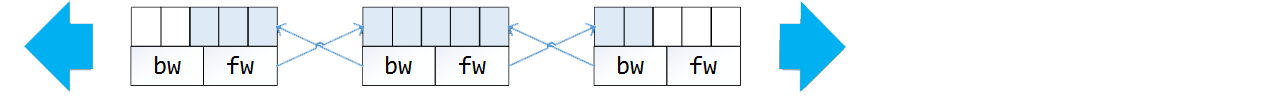
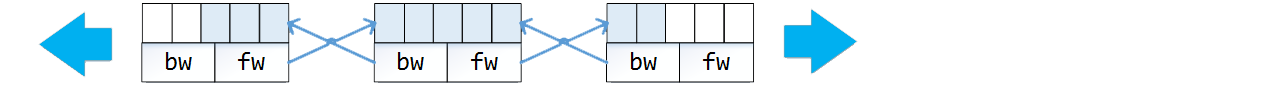
finish chapter 03

diff --git a/Array/array/queue.go b/Array/array/queue.go
@@ -1,5 +1,9 @@
 package array
 
+import (
+	"errors"
+)
+
 type Queue interface {
 	Clear()
 	IsFull() bool
@@ -9,32 +13,33 @@ type Queue interface {
 	Front() (key int, fail bool)
 }
 
-func NewQueue(size int) Queue {
+func NewQueue(size int) (Queue, error) {
 	var core = new(queue)
-	core.initialize(size)
-	return core
+	var err = core.initialize(size)
+	if err != nil {
+		return nil, err
+	}
+	return core, nil
 }
 
-//实际容量为len(space)-1
 type queue struct {
 	space    []int
 	mask     int
 	rpt, wpt int
 }
 
-func (q *queue) initialize(size int) {
-	if size > 0x10000 {
-		size = 0x10000
-	} else if size < 4 {
-		size = 4
+func (q *queue) initialize(size int) error {
+	if size < 1 || size > 0xffff {
+		return errors.New("Illefal queue size")
 	}
 	var sz = 4
-	for sz < size {
+	for sz <= size {
 		sz *= 2
-	}
+	} //实际容量为sz-1
 	q.space = make([]int, sz)
 	q.mask = sz - 1
 	q.Clear()
+	return nil
 }
 func (q *queue) Clear() {
 	q.rpt, q.wpt = 0, 0
@@ -54,6 +59,7 @@ func (q *queue) Push(key int) (fail bool) {
 		return true
 	}
 	q.space[q.wpt] = key
+	//memory barrier
 	q.wpt = next
 	return false
 }
@@ -65,6 +71,8 @@ func (q *queue) Pop() (key int, fail bool) {
 	if q.IsEmpty() {
 		return 0, true
 	}
-	key, q.rpt = q.space[q.rpt], (q.rpt+1)&q.mask
+	key = q.space[q.rpt]
+	//memory barrier
+	q.rpt = (q.rpt + 1) & q.mask
 	return key, false
 }

diff --git a/Array/array/unit_test.go b/Array/array/unit_test.go
@@ -31,7 +31,7 @@ func Test_BinarySearch(t *testing.T) {
 func Test_CyclicQueue(t *testing.T) {
 	defer guard_ut(t)
 
-	var queue = NewQueue(5)
+	var queue, _ = NewQueue(5)
 	for i := 1; i < 8; i++ {
 		var fail = queue.Push(i)
 		if fail {
@@ -42,6 +42,7 @@ func Test_CyclicQueue(t *testing.T) {
 	if !fail {
 		t.Fail()
 	}
+	//1, 2, 3, 4, 5, 6, 7
 
 	for i := 1; i < 5; i++ {
 		var key, fail = queue.Pop()
@@ -49,6 +50,7 @@ func Test_CyclicQueue(t *testing.T) {
 			t.Fail()
 		}
 	}
+	//5, 6, 7
 	for i := 8; i < 12; i++ {
 		var fail = queue.Push(i)
 		if fail {
@@ -58,6 +60,7 @@ func Test_CyclicQueue(t *testing.T) {
 	if !queue.IsFull() {
 		t.Fail()
 	}
+	//5, 6, 7, 8, 9, 10, 11
 
 	for i := 5; i < 12; i++ {
 		var key, fail = queue.Pop()

diff --git a/book/01/01-C.md b/book/01/01-C.md
@@ -51,30 +51,30 @@
 
 既然不知道怎么选，我们大可以先随机抓几个，再剔掉最烂的。虽说也是治标不治本的法子，好歹比固定选某个强。
 ```go
-var magic = ^uint(0)
-func partition(list []int) int {
-	var size = len(list)					//不少于3
-	var x, y = int(magic % uint(size-1)), int(magic % uint(size-2))
-	magic = magic*1103515245 + 12345		//伪随机数步进
+	var magic = ^uint(0)
+	func partition(list []int) int {
+		var size = len(list)					//不少于3
+		var x, y = int(magic % uint(size-1)), int(magic % uint(size-2))
+		magic = magic*1103515245 + 12345		//伪随机数步进
 
-	var a, b = 1 + x, 1 + (1+x+y)%(size-1)	//a != b
-	var barrier = list[0]					//三点取中法
-	if list[a] < list[b] {
-		if barrier < list[a] {
-			barrier, list[a] = list[a], barrier
-		} else if list[b] < barrier {
-			barrier, list[b] = list[b], barrier
+		var a, b = 1 + x, 1 + (1+x+y)%(size-1)	//a != b
+		var barrier = list[0]					//三点取中法
+		if list[a] < list[b] {
+			if barrier < list[a] {
+				barrier, list[a] = list[a], barrier
+			} else if list[b] < barrier {
+				barrier, list[b] = list[b], barrier
+			}
+		} else { //list[a] >= list[b]
+			if barrier > list[a] {
+				barrier, list[a] = list[a], barrier
+			} else if list[b] > barrier {
+				barrier, list[b] = list[b], barrier
+			}
 		}
-	} else { //list[a] >= list[b]
-		if barrier > list[a] {
-			barrier, list[a] = list[a], barrier
-		} else if list[b] > barrier {
-			barrier, list[b] = list[b], barrier
-		}
-	}
 	
-	//...
-}
+		//...
+	}
 ```
 
 ## 内省排序

diff --git a/book/03/03-B.md b/book/03/03-B.md
@@ -1,4 +1,53 @@
 # 环状队列
 
+![](../images/Queue.png)
+
+队列也可以基于数组实现，这种队列呈环状，实际可容纳元素比底层的数组少一个。
+```go
+	type queue struct {
+		space    []int		//底层数组
+		mask     int
+		rpt, wpt int		//读写游标
+	}
+
+	func (q *queue) initialize(size int) error {
+		if size < 1 || size > 0xffff {
+			return errors.New("Illefal queue size")
+		}
+		var sz = 4
+		for sz <= size {
+			sz *= 2
+		} //实际容量为sz-1
+		q.space = make([]int, sz)
+		q.mask = sz - 1
+		q.Clear()
+		return nil
+	}
+```
+
+## 生产&消费
+环状队列的插入的弹出可以安全地并行使用，能够满足单生产者单消费者场景而无需额外的同步（除非乱序访存）。
+```go
+	func (q *queue) Push(key int) (fail bool) {
+		var next = (q.wpt + 1) & q.mask
+		if next == q.rpt {								//先探路
+			return true
+		}
+		q.space[q.wpt] = key							//后前进
+		//memory barrier
+		q.wpt = next									//落子无悔
+		return false
+	}
+	func (q *queue) Pop() (key int, fail bool) {
+		if q.rpt == q.wpt {								//先探路
+			return 0, true
+		}
+		key = q.space[q.rpt]							//后前进
+		//memory barrier
+		q.rpt = (q.rpt+1)&q.mask						//落子无悔
+		return key, false
+	}
+```
+
 ---
-[目录](../index.md)　[上一节](03-A.md)　[下一节](03.md)
+[目录](../index.md)　[上一节](03.md)　[下一节](03.md)

diff --git a/book/03/03.md b/book/03/03.md
@@ -2,5 +2,65 @@
  1. [栈与递归](03-A.md)
  2. [环状队列](03-B.md)
  
+## 特点
+栈和队列约束元素的访问时机，栈要求先进后出，队列要求先进先出。
+ 
+## 变身大法
+栈和队列通常基于在其它数据结构实现，例如 [双向队列](../02/02-B.md)。
+```go
+	type stack struct {
+		deque
+	}
+	type Stack interface {
+		Clear()
+		Size() int
+		IsEmpty() bool
+		Push(key int)
+		Pop() (key int, fail bool)
+		Top() (key int, fail bool)
+	}
+
+	func NewStack() Stack {
+		var container = new(stack)
+		container.initialize()
+		return container
+	}
+	func (s *stack) Push(key int) {
+		s.PushFront(key)
+	}
+	func (s *stack) Pop() (key int, fail bool) {
+		return s.PopFront()
+	}
+	func (s *stack) Top() (key int, fail bool) {
+		return s.Front()
+	}
+```
+```go
+	type queue struct {
+		deque
+	}
+	type Queue interface {
+		Clear()
+		Size() int
+		IsEmpty() bool
+		Push(key int)
+		Pop() (key int, fail bool)
+		Front() (key int, fail bool)
+		Back() (key int, fail bool)
+	}
+
+	func NewQueue() Queue {
+		var container = new(queue)
+		container.initialize()
+		return container
+	}
+	func (q *queue) Push(key int) {
+		q.PushBack(key)
+	}
+	func (q *queue) Pop() (key int, fail bool) {
+		return q.PopFront()
+	}
+```
+
 ---
 [返回目录](../index.md)

diff --git a/book/03/03-A.md b/book/03/03-A.md
@@ -1,4 +1,25 @@
 # 栈与递归
 
+　　在追求性能而非灵活性的时候，栈可以基于数组实现。在我们使用递归这种编程技巧时，系统通常就是利用这样的（不绝对，例如Go运行时的早期版本）一个栈来满足我们的任性。先前的内省排序其实就隐藏着O(logN)的空间开销，而快速排序在最坏情况下更是要到O(N)。
+
+栈空间往往比较宝贵，有些时候我们考虑消除递归，下面以数组的快速排序为例展示此项技巧。
+```go
+	func QuickSort(list []int) {
+		magic = uint(time.Now().Unix())
+		var tasks stack
+		tasks.push(0, len(list))
+		for !tasks.isEmpty() {
+			var start, end = tasks.pop()
+			if end-start < sz_limit {
+				InsertSort(list[start:end])
+			} else {
+				var knot = partition(list[start:end]) + start
+				tasks.push(knot+1, end)							//原左路递归
+				tasks.push(start, knot)							//原右路递归
+			}
+		}
+	}
+```
+
 ---
 [目录](../index.md)　[上一节](03.md)　[下一节](03-B.md)
